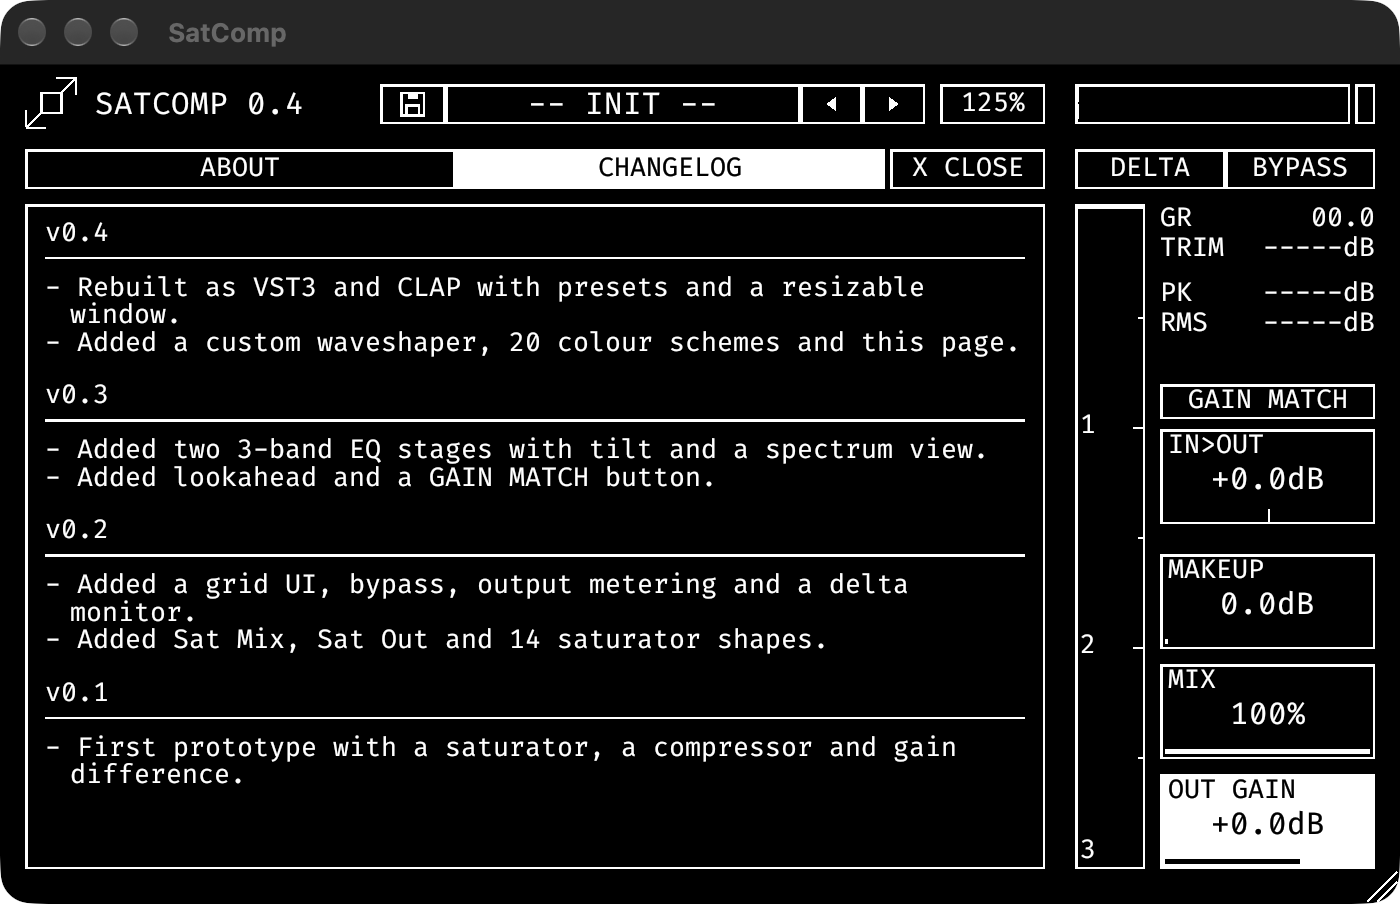
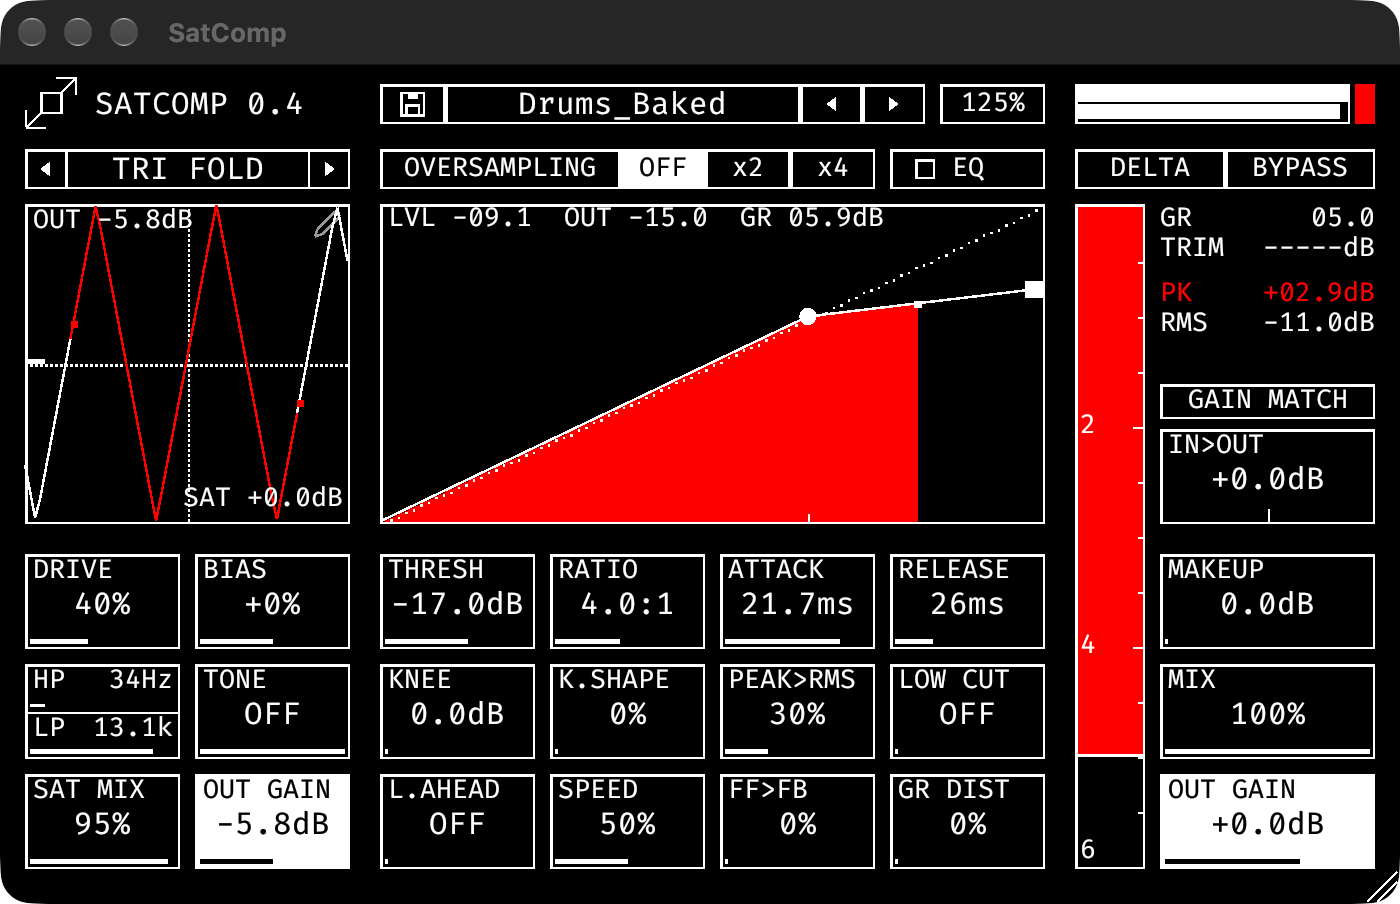
gui: re-base UI timestamps when the egui clock restarts (frozen PK/RMS/GR readouts, peak reset)
The editor State outlives the window, but egui's clock restarts from 0 on reopen, so now - last stayed negative and the
~8 Hz readouts stopped refreshing. Unconfirmed in REAPER: the cause is inferred from the screenshot (PK stale, RMS blank).

diff --git a/rust/satcomp-plugin/src/gui/ui.rs b/rust/satcomp-plugin/src/gui/ui.rs
@@ -175,6 +175,17 @@ impl State {
         self.rpress = rdown && !self.last_rdown;
         self.last_rdown = rdown;
         self.shift = shift;
+        // The egui clock restarts from 0 whenever the editor window is reopened, but this State lives on. Re-base every
+        // stored timestamp, otherwise `now - last` stays negative and the ~8 Hz readouts (PK, RMS, GR) stay frozen.
+        if now < self.now {
+            self.rd_last = now;
+            self.hl_l_t = now;
+            self.hl_r_t = now;
+            self.gr_hold_t = now;
+            self.last_clk_t = now;
+            self.hold_until = now;
+            self.spec_t = now;
+        }
         self.now = now;
         // notch the scroll: a mouse wheel reports big steps, a trackpad many small ones
         self.wacc += scroll;
